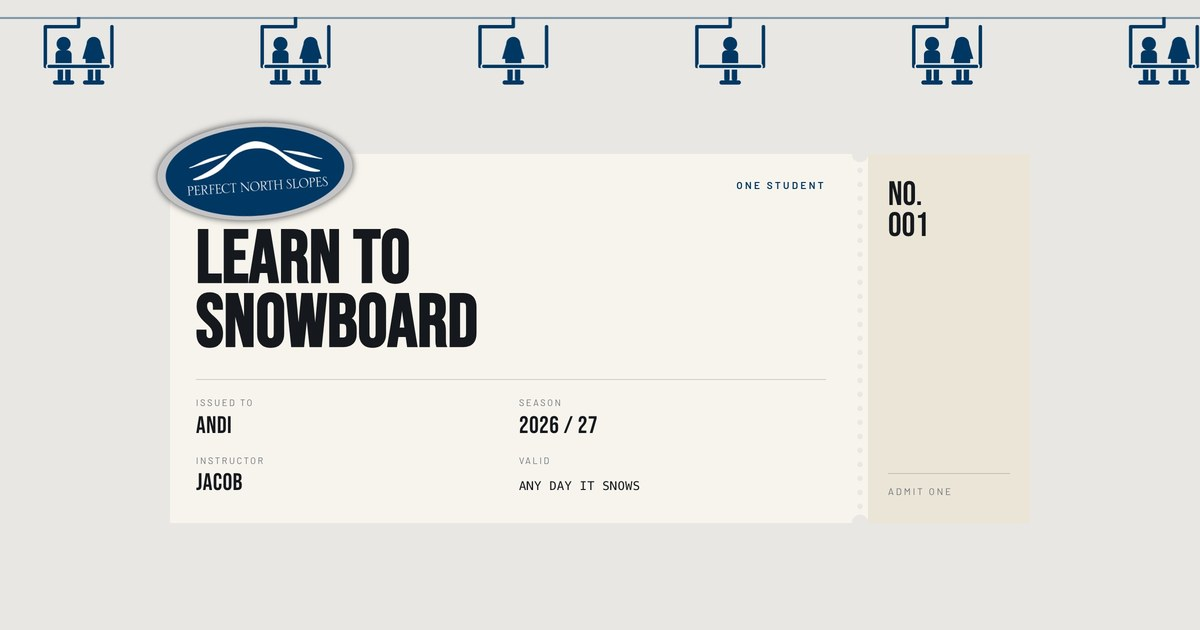
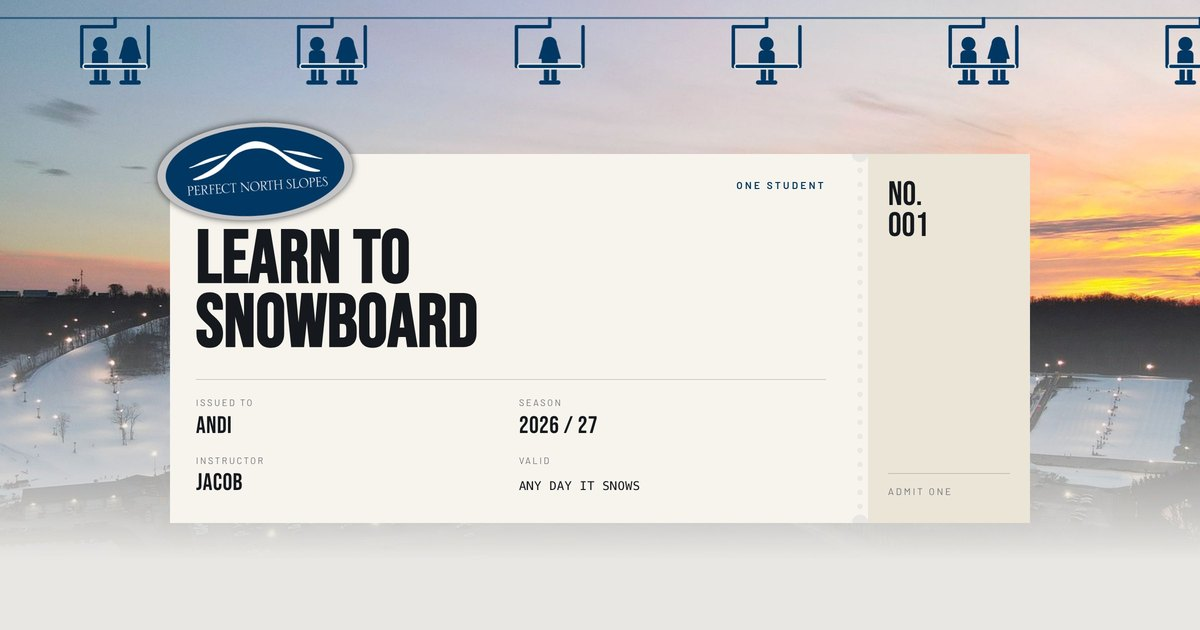
Add the hill photo behind the lift and ticket on /snowboard
Masked so it dissolves into the page instead of ending on a seam.
Link preview regenerated to match.

diff --git a/snowboard/index.html b/snowboard/index.html
@@ -43,7 +43,17 @@ body{
 }
 img,video,svg{display:block;max-width:100%}
 a{color:inherit;text-decoration:none}
-.wrap{max-width:900px;margin:0 auto;padding:0 20px 56px}
+.wrap{position:relative;z-index:1;max-width:900px;margin:0 auto;padding:0 20px 56px}
+
+/* ---------- backdrop ---------- */
+/* The hill sits behind the lift and the ticket only, masked so it dissolves into
+   the page rather than ending on a seam. Everything below it stays on plain paper. */
+.backdrop{
+  position:absolute;top:0;left:0;right:0;height:560px;z-index:0;pointer-events:none;
+  background:url(media/hill.jpg) center 38% / cover no-repeat;
+  -webkit-mask-image:linear-gradient(to bottom,#000 0%,#000 48%,rgba(0,0,0,.45) 76%,transparent 100%);
+  mask-image:linear-gradient(to bottom,#000 0%,#000 48%,rgba(0,0,0,.45) 76%,transparent 100%);
+}
 
 /* ---------- chairlift ---------- */
 /* Each chair is its own small absolutely positioned element with its own looping
@@ -53,10 +63,10 @@ a{color:inherit;text-decoration:none}
    so the chairs vanished on screen while the DOM said they were in place.
    Independent chairs keep every layer small, make the spacing exact at any width,
    and loop seamlessly without any track-length arithmetic. */
-.lift{position:relative;height:108px;overflow:hidden}
+.lift{position:relative;z-index:1;height:108px;overflow:hidden}
 .lift::before{
   content:"";position:absolute;left:0;right:0;top:17px;height:2px;
-  background:var(--navy);opacity:.45;
+  background:var(--navy);opacity:.6;
 }
 .lift-track{position:absolute;inset:0}
 .chair{
@@ -207,6 +217,7 @@ figcaption b{
 :focus-visible{outline:2px solid var(--navy);outline-offset:3px}
 
 @media (max-width:760px){
+  .backdrop{height:430px;background-position:center 42%}
   .lift{height:92px}
   .lift::before{top:15px}
   .chair{top:15px}
@@ -241,6 +252,8 @@ figcaption b{
 <body>
 
 <!-- ====================== CHAIRLIFT ====================== -->
+<div class="backdrop" aria-hidden="true"></div>
+
 <div class="lift" aria-hidden="true"><div class="lift-track" id="lift"></div></div>
 
 <div class="wrap">
